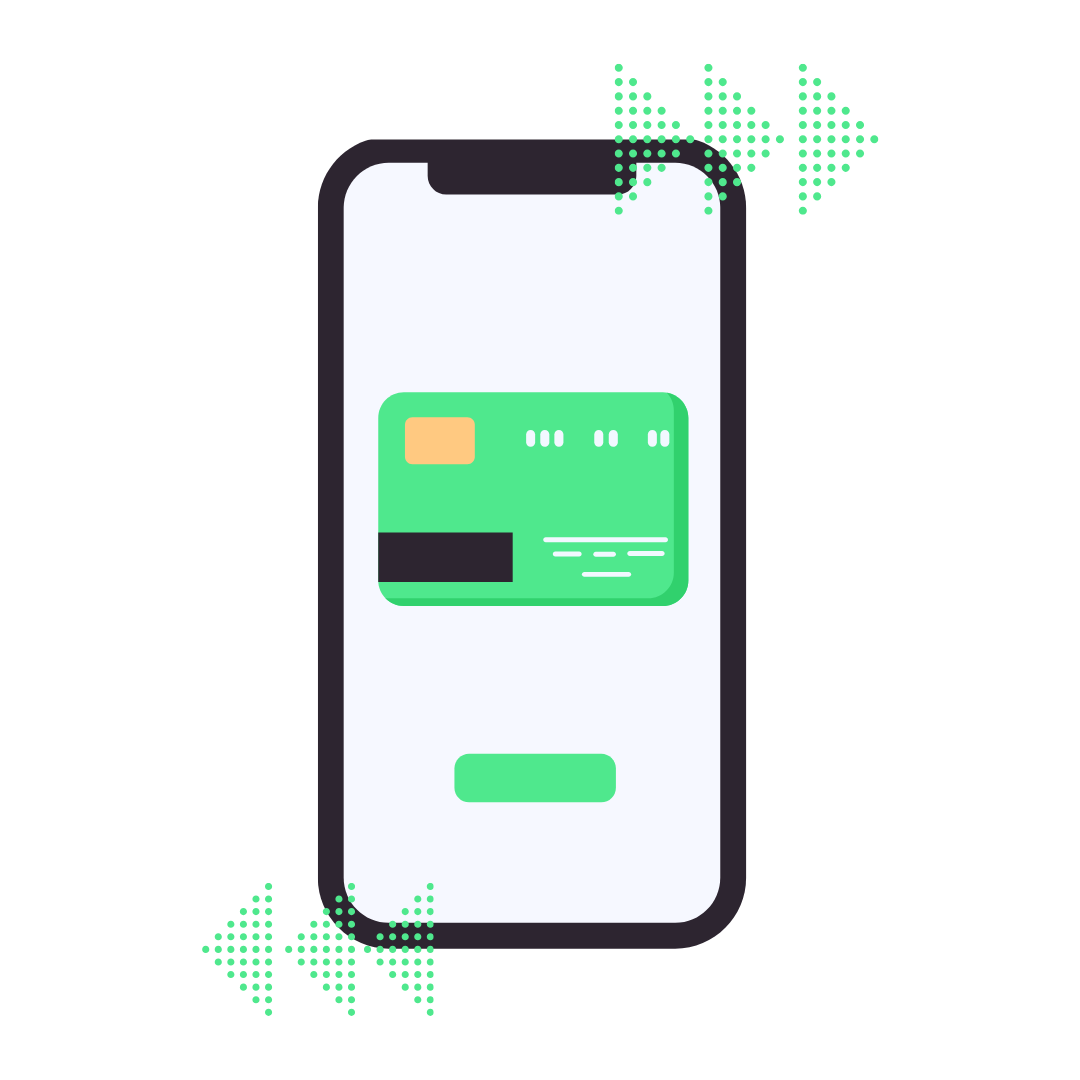
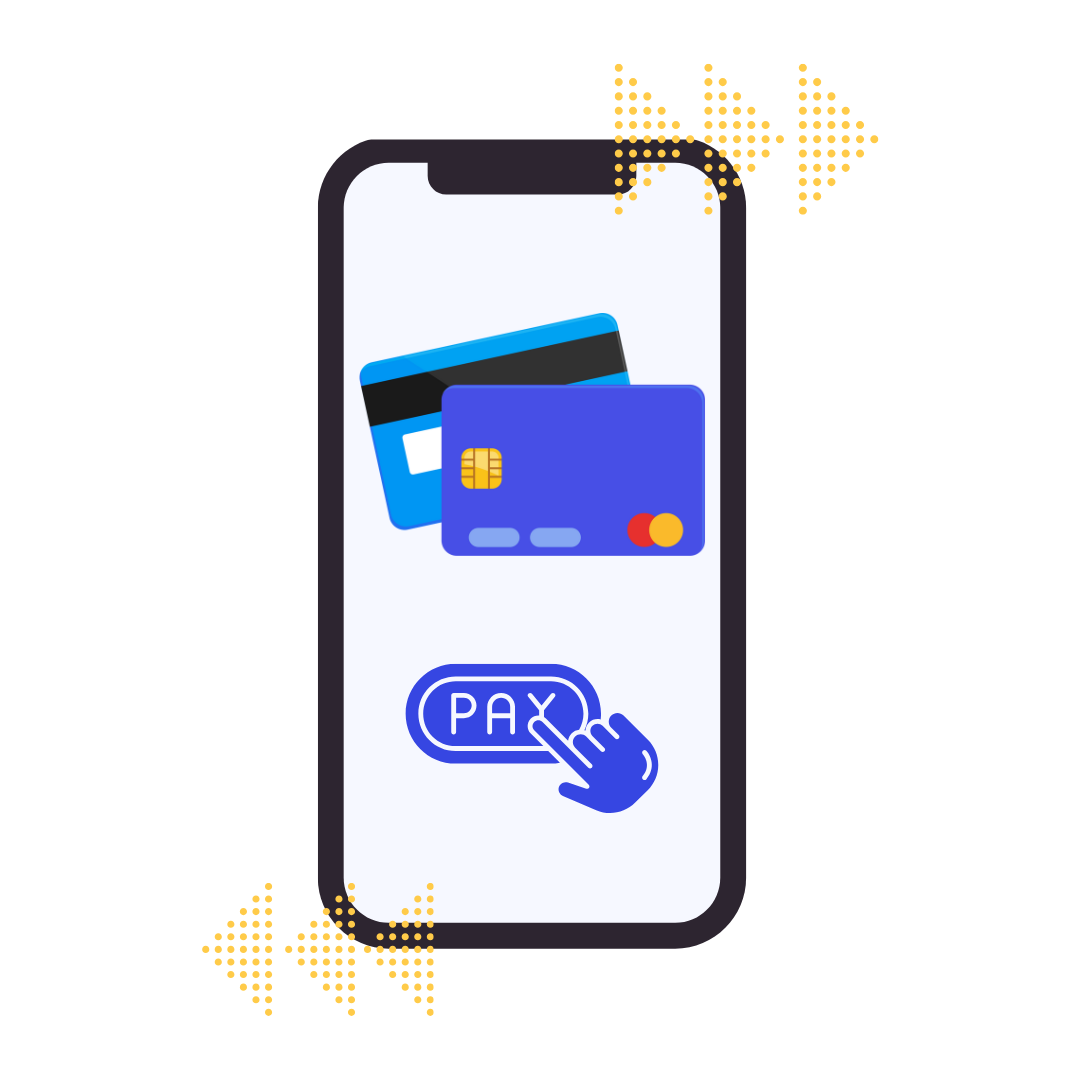
New BGs.

diff --git a/congopay-new.html b/congopay-new.html
@@ -303,17 +303,17 @@
                       </div>
                     </div>
                     <h2
-                      class="hero-title fw-black mb-0 font-dm-sans text-dark"
+                      class="hero-title fw-black mb-0 font-dm-sans text-white"
                     >
                       Safe. Simple. Harambee Pay.
                     </h2>
-                    <p class="fw-medium hero-desc mb-2 text-dark">
+                    <p class="fw-medium hero-desc mb-2 text-white">
                       Harambee Pay is empowering Africa with fast, secure, and
                       borderless digital payments — financial freedom made
                       simple.
                     </p>
                     <ul
-                      class="mb-3 p-0 d-flex flex-wrap align-items-center justify-content-sm-start justify-content-center gap-3 hero-benefits text-dark"
+                      class="mb-3 p-0 d-flex flex-wrap align-items-center justify-content-sm-start justify-content-center gap-3 hero-benefits text-white"
                     >
                       <li class="d-flex align-items-center gap-1">
                         <i class="fa-solid fa-circle text-primary"></i>

diff --git a/assets/css/custom.css b/assets/css/custom.css
@@ -1594,11 +1594,11 @@ header .nav-link {
 }
 
 .africapay-0-2  .hero-box{
-  background-image: url(../images/harambee-hero-bg-2.png);
+  background-image: linear-gradient(#6844fe,#6844fe);
 }
 
 .africapay-0-2 .text-primary{
-  color: #b1ff36 !important;
+  color: #75c947 !important;
 }
 
 .africapay-0-2 .hero-content{
@@ -1606,10 +1606,10 @@ header .nav-link {
 }
 
 .africapay-0-3  .hero-box{
-  background-image: url(../images/congopay-hero-bg.jpg);
+  background-image: linear-gradient(#3646e2,#3d4de1);
 }
 
 
 .africapay-0-3 .text-primary {
-  color: #4fe88d !important;
+  color: #ffcb49 !important;
 }
